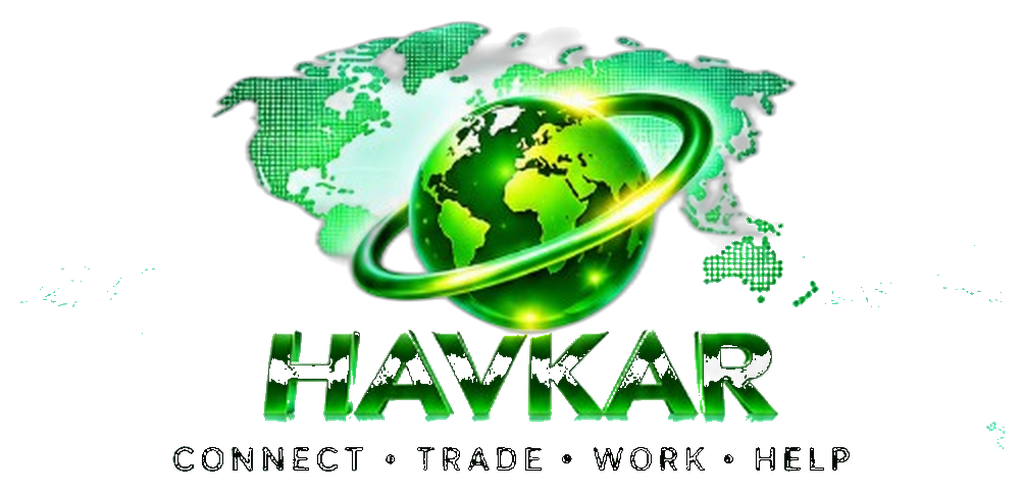
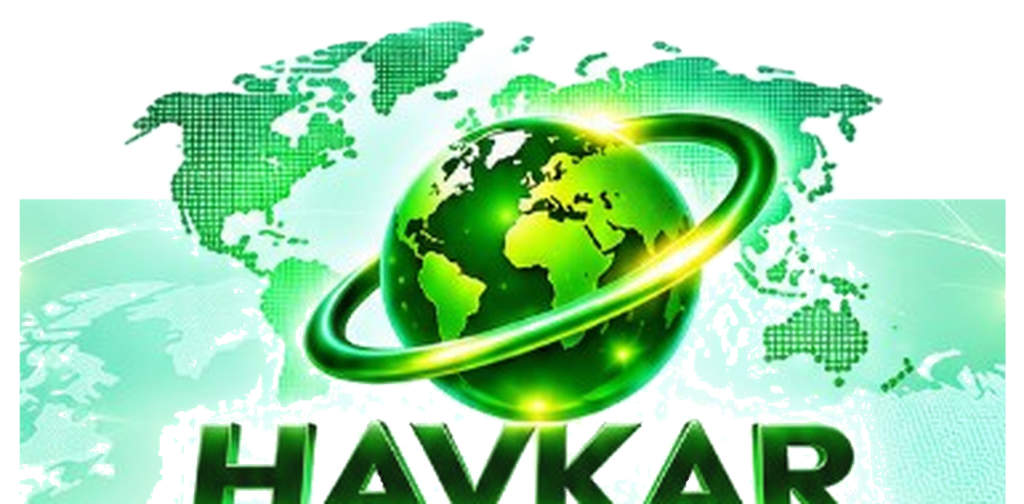
fix(home): clean continuous map, healthy HAVKAR, no profile plate
Replace logo/text-bearing map background with a clean continuous mint
world map, restore healthy globe+HAVKAR header without duplicate slogan,
and remove the extra rectangle/horizon plate behind the Profile bar.
Twelve icons left untouched. No merge until owner visual approval.

diff --git a/index.html b/index.html
@@ -82,7 +82,7 @@ body {
             rgba(210, 242, 220, 0.28) 48%,
             rgba(196, 236, 210, 0.45) 100%
         ),
-        url("assets/home/home-mint-map-bg.png?v=owner-home-uncropped-b-20261127");
+        url("assets/home/home-mint-map-bg.png?v=owner-home-map-clean-20261128c");
     background-size: auto, cover;
     background-position: center top, center top;
     background-repeat: no-repeat, no-repeat;
@@ -522,36 +522,21 @@ h1 {
     position: relative;
     width: 100%;
     margin: 2px 0 8px;
-    padding: 36px 0 14px;
+    padding: 18px 0 10px;
     z-index: 2;
+    background: transparent;
+    border: 0;
+    box-shadow: none;
 }
 
 .home-globe-horizon::before {
-    content: "";
-    position: absolute;
-    left: -8%;
-    right: -8%;
-    bottom: -8px;
-    height: 120px;
-    border-radius: 50% 50% 0 0 / 100% 100% 0 0;
-    background:
-        radial-gradient(ellipse 80% 70% at 50% 100%, rgba(80, 255, 140, 0.35) 0%, transparent 55%),
-        linear-gradient(180deg, rgba(18, 160, 55, 0.0) 0%, rgba(12, 140, 48, 0.55) 55%, rgba(8, 110, 36, 0.75) 100%);
-    z-index: 0;
-    pointer-events: none;
+    /* Owner QA: no extra rectangle/plate behind Profile bar */
+    content: none;
 }
 
 .home-globe-horizon-art {
-    position: absolute;
-    left: 50%;
-    bottom: 0;
-    transform: translateX(-50%);
-    width: 118%;
-    max-width: none;
-    height: auto;
-    pointer-events: none;
-    z-index: 0;
-    opacity: 0.98;
+    /* Owner QA: hide horizon art plate/line behind Profile bar */
+    display: none;
 }
 
 .home-settings-bar {
@@ -575,8 +560,8 @@ h1 {
             #087a24 100%
         );
     box-shadow:
-        0 16px 30px rgba(12, 120, 40, 0.32),
-        0 0 28px rgba(80, 255, 140, 0.28),
+        0 10px 22px rgba(12, 120, 40, 0.26),
+        0 0 18px rgba(80, 255, 140, 0.20),
         inset 0 2px 0 rgba(255, 255, 255, 0.45),
         inset 0 -2px 0 rgba(0, 60, 20, 0.25);
     border: 1px solid rgba(8, 90, 28, 0.18);
@@ -800,7 +785,7 @@ html[data-havkar-entry="home"] .havkar-legal-footer {
         <p class="visually-hidden" data-i18n="tagline">Connect • Trade • Work • Help</p>
         <img
             class="home-header"
-            src="assets/home/header.png?v=owner-home-uncropped-b-20261127"
+            src="assets/home/header.png?v=owner-home-map-clean-20261128c"
             alt="HAVKAR. Connect • Trade • Work • Help"
             width="1024"
             height="491"
@@ -886,7 +871,7 @@ html[data-havkar-entry="home"] .havkar-legal-footer {
     <div class="home-globe-horizon" data-havkar-home-horizon="1">
         <img
             class="home-globe-horizon-art"
-            src="assets/home/home-globe-horizon.png?v=owner-home-uncropped-b-20261127"
+            src="assets/home/home-globe-horizon.png?v=owner-home-map-clean-20261128c"
             alt=""
             width="1200"
             height="210"
